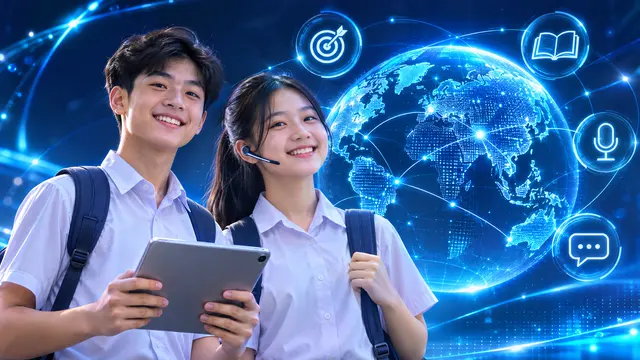
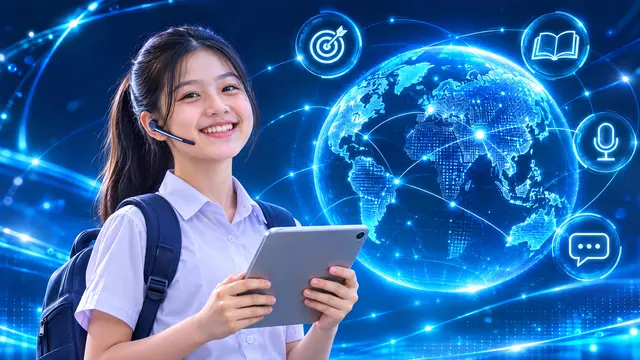
Anh iGlobal: nu hoc sinh lop 6, tre hon

diff --git a/index.html b/index.html
@@ -274,7 +274,7 @@
           <!-- iGlobal -->
           <article class="prog-card" id="card-iglobal" data-program="iglobal" data-grade-from="6" data-grade-to="9" style="--c:#2B5FE8;--c-ink:#2B5FE8;--c-btn:#2B5FE8;--c-btn-text:#FFFFFF;--c-lite:#6C97FF">
             <div class="prog-card__media">
-              <picture><source media="(min-width: 1180px)" srcset="assets/img/prog-iglobal-tall-400.webp 400w, assets/img/prog-iglobal-tall.webp 720w" sizes="240px" width="720" height="1280"><img src="assets/img/prog-iglobal.webp" srcset="assets/img/prog-iglobal-640.webp 640w, assets/img/prog-iglobal.webp 1280w" sizes="(min-width: 1180px) 520px, 100vw" width="1280" height="720" loading="lazy" decoding="async" alt="Học sinh trung học cơ sở cầm máy tính bảng, đeo tai nghe micro, phía sau là quả địa cầu số phát sáng"></picture>
+              <picture><source media="(min-width: 1180px)" srcset="assets/img/prog-iglobal-tall-400.webp 400w, assets/img/prog-iglobal-tall.webp 720w" sizes="240px" width="720" height="1280"><img src="assets/img/prog-iglobal.webp" srcset="assets/img/prog-iglobal-640.webp 640w, assets/img/prog-iglobal.webp 1280w" sizes="(min-width: 1180px) 520px, 100vw" width="1280" height="720" loading="lazy" decoding="async" alt="Nữ sinh lớp 6 đeo tai nghe micro, cầm máy tính bảng học trực tuyến, phía sau là quả địa cầu số phát sáng"></picture>
             </div>
             <div class="prog-card__head">
               <span class="prog-card__match" hidden></span>

diff --git a/css/style.css b/css/style.css
@@ -688,3 +688,4 @@ html.anim .reveal.is-in .pt-spark--orange { animation-delay: 2.1s; }
   .js-panels #card-ilead .prog-card__media img { object-position: 42% 18%; }
   .js-panels #card-ipass .prog-card__media img { object-position: 52% 18%; }
 }
+@media (min-width: 1180px) { .js-panels #card-iglobal .prog-card__media img { object-position: 46% 18%; } }
